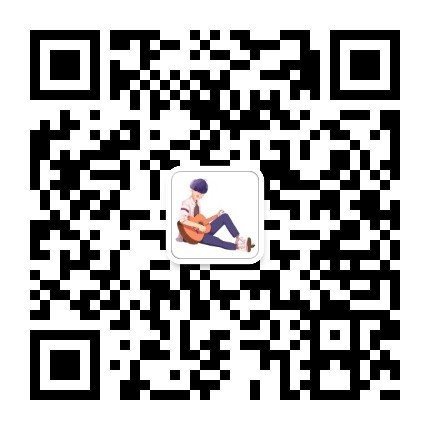
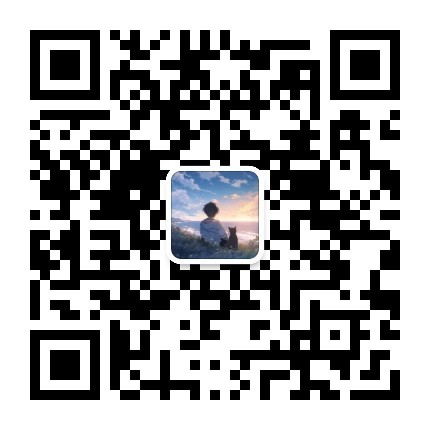
docs: expand README, tighten gitignore, update MP qrcode
README 补充部署架构说明：GitHub Pages 仅为分发中转，实际服务方是
VPS 上的 OpenResty（deploy → webhook → git pull）；以及 source/CNAME
的真实作用域、预览端口成因、HTTP 被拦截、飘带缺陷等排查记录。

.gitignore 新增 .vscode/ 与 .claude/settings.local.json
（后者此前仅靠用户全局 gitignore 保护，不随仓库分发）。

Claude-Session: https://claude.ai/code/session_01T6pmJMSn4HbW7CqYthrkWT

diff --git a/README.md b/README.md
@@ -1,3 +1,64 @@
 # hexo-blog
 
-blog by hexo
+个人博客 [七月流火 - 四零九六](https://www.imrui.net) 的源码仓库。
+
+- **框架**：[Hexo](https://hexo.io/) 7.3
+- **主题**：[NexT](https://theme-next.js.org/) 8.29
+- **运行环境**：Node.js >= 20.19（受 `hexo-generator-feed@4` 约束）
+
+## 快速开始
+
+```bash
+npm install     # 安装依赖
+npm run server  # 本地预览 http://localhost:4321
+npm run build   # 生成静态文件到 public/
+npm run clean   # 清理缓存与 public/
+npm run deploy  # 构建产物推送到 GitHub
+```
+
+> 本地预览端口固定为 **4321** 而非 Hexo 默认的 4000，因为 4000 会被福昕阅读器的
+> `FoxitProtect` 服务占用（它显式绑定 `127.0.0.1:4000`，优先级高于 Hexo 的通配绑定，
+> 表现为服务启动正常但浏览器打不开）。
+
+## 目录结构
+
+```
+_config.yml         Hexo 站点配置
+_config.next.yml    NeXT 主题配置（npm 安装主题的覆盖方式）
+scaffolds/          新建文章模板
+source/
+  _posts/           文章 Markdown
+  _data/            主题自定义注入片段
+  about/ 404/       独立页面
+  images/           图片资源
+  CNAME             GitHub Pages 自定义域名绑定
+```
+
+## 部署架构
+
+站点**并非**由 GitHub Pages 直接对外提供服务，GitHub 仅作为分发中转：
+
+```
+本地 npm run deploy
+  └─> push 到 github.com/imrui/imrui.github.io
+        └─> GitHub WebHook
+              └─> 腾讯云 VPS 上的 OpenResty 执行 git pull
+                    └─> 对外提供 https://www.imrui.net
+```
+
+WebHook 侧的实现见文章[《基于 OpenResty + GitHub WebHook 的代码自动更新》](https://www.imrui.net/2020/12/02/nginx-lua-webhook/)。
+
+`source/CNAME` 只影响 `imrui.github.io` 的跳转行为（301 到自定义域名），
+对主站没有作用——主站域名由 VPS 侧的 DNS 与 Nginx 配置决定。
+
+## 已知问题
+
+**HTTP 明文访问被拦截。** `http://www.imrui.net` 会被腾讯云 DNSPod 302 到
+`webblock` 提示页（备案相关），HTTPS 不受影响。因此 `_config.yml` 中的 `url`
+必须使用 `https://`，否则 RSS 与站点地图中的绝对链接会全部指向被拦截的地址。
+
+**NeXT 8.29 的飘带配置失效。** 主题给 `ribbon.js` 加了 `defer`，而该脚本依赖
+「自己是文档中最后一个 script」来读取 `size` / `alpha` 属性；`defer` 使其推迟到
+DOM 解析完毕后执行，此时读不到属性而静默回落内置默认值（`size=90`、`alpha=0.6`），
+表现为飘带锯齿密集、颜色过饱和。当前的规避方式是关闭主题自带的 `canvas_ribbon`，
+改由 `source/_data/body-end.njk` 在运行时动态注入，详见该文件内的注释。
